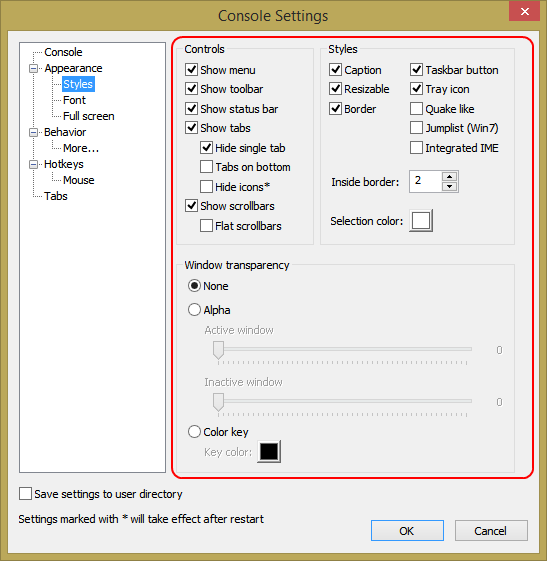
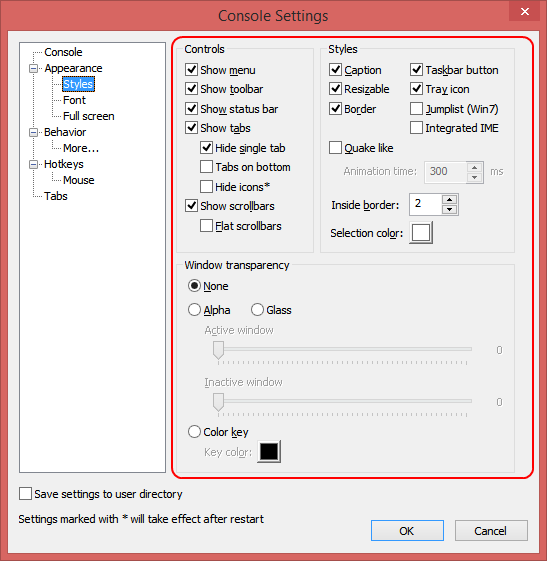
#110 Quake like animation time is settable

diff --git a/help/html/settings_appearance_styles.html b/help/html/settings_appearance_styles.html
@@ -112,6 +112,12 @@
 	</p>
 	<br />
 
+	<p class="block-row-name">Animation time</p>
+	<p class="block-row-description">
+		The time it takes to play the animation, in milliseconds.
+	</p>
+	<br />
+
 	<p class="block-row-name">Jumplist (Win7)</p>
 	<p class="block-row-description">
 		If checked, Console will create Windows 7 jumplist (shortcut for every tab accessible by right-clicking the icon in the taskbar). 

diff --git a/Console/SettingsHandler.cpp b/Console/SettingsHandler.cpp
@@ -528,11 +528,12 @@ StylesSettings::StylesSettings()
 , bResizable(true)
 , bTaskbarButton(true)
 , bBorder(true)
-, dwInsideBorder(2)
 , bTrayIcon(false)
 , bQuake(false)
 , bJumplist(false)
 , bIntegratedIME(false)
+, dwInsideBorder(2)
+, dwQuakeAnimationTime(300)
 , crSelectionColor(RGB(255, 255, 255))
 {
 }
@@ -555,6 +556,7 @@ bool StylesSettings::Load(const CComPtr<IXMLDOMElement>& pSettingsRoot)
 	XmlHelper::GetAttribute(pStylesElement, CComBSTR(L"inside_border"), dwInsideBorder, 2);
 	XmlHelper::GetAttribute(pStylesElement, CComBSTR(L"tray_icon"), bTrayIcon, false);
 	XmlHelper::GetAttribute(pStylesElement, CComBSTR(L"quake_like"), bQuake, false);
+	XmlHelper::GetAttribute(pStylesElement, CComBSTR(L"quake_animation_time"), dwQuakeAnimationTime, 300);
 	XmlHelper::GetAttribute(pStylesElement, CComBSTR(L"jumplist"), bJumplist, false);
 	XmlHelper::GetAttribute(pStylesElement, CComBSTR(L"integrated_ime"), bIntegratedIME, false);
 
@@ -585,6 +587,7 @@ bool StylesSettings::Save(const CComPtr<IXMLDOMElement>& pSettingsRoot)
 	XmlHelper::SetAttribute(pStylesElement, CComBSTR(L"inside_border"), dwInsideBorder);
 	XmlHelper::SetAttribute(pStylesElement, CComBSTR(L"tray_icon"), bTrayIcon);
 	XmlHelper::SetAttribute(pStylesElement, CComBSTR(L"quake_like"), bQuake);
+	XmlHelper::SetAttribute(pStylesElement, CComBSTR(L"quake_animation_time"), dwQuakeAnimationTime);
 	XmlHelper::SetAttribute(pStylesElement, CComBSTR(L"jumplist"), bJumplist);
 	XmlHelper::SetAttribute(pStylesElement, CComBSTR(L"integrated_ime"), bIntegratedIME);
 
@@ -608,11 +611,12 @@ StylesSettings& StylesSettings::operator=(const StylesSettings& other)
 	bResizable		= other.bResizable;
 	bTaskbarButton	= other.bTaskbarButton;
 	bBorder			= other.bBorder;
-	dwInsideBorder	= other.dwInsideBorder;
 	bTrayIcon		= other.bTrayIcon;
 	bQuake		= other.bQuake;
 	bJumplist		= other.bJumplist;
 	bIntegratedIME		= other.bIntegratedIME;
+	dwInsideBorder	= other.dwInsideBorder;
+	dwQuakeAnimationTime	= other.dwQuakeAnimationTime;
 	crSelectionColor= other.crSelectionColor;
 
 	return *this;

diff --git a/Console/DlgSettingsStyles.h b/Console/DlgSettingsStyles.h
@@ -38,6 +38,7 @@ class DlgSettingsStyles
 			DDX_CHECK(IDC_CHECK_USE_JUMPLIST, m_stylesSettings.bJumplist)
 			DDX_CHECK(IDC_CHECK_INTEGRATED_IME, m_stylesSettings.bIntegratedIME)
 			DDX_UINT(IDC_INSIDE_BORDER, m_stylesSettings.dwInsideBorder)
+			DDX_UINT(IDC_QUAKE_ANIMATION_TIME, m_stylesSettings.dwQuakeAnimationTime)
 			DDX_RADIO(IDC_TRANSPARENCY_TYPE, reinterpret_cast<int&>(m_transparencySettings.transType))
 			DDX_CHECK(IDC_CHECK_HIDE_TAB_ICONS, m_controlsSettings.bHideTabIcons)
 		END_DDX_MAP()
@@ -50,6 +51,7 @@ class DlgSettingsStyles
 			COMMAND_ID_HANDLER(IDCANCEL, OnCloseCmd)
 			COMMAND_HANDLER(IDC_CHECK_SHOW_TABS, BN_CLICKED, OnClickedShowTabs)
 			COMMAND_HANDLER(IDC_CHECK_SHOW_SCROLLBARS, BN_CLICKED, OnClickedShowScrollbars)
+			COMMAND_HANDLER(IDC_CHECK_STYLE_QUAKE, BN_CLICKED, OnClickedQuake)
 			COMMAND_HANDLER(IDC_KEY_COLOR, BN_CLICKED, OnClickedKeyColor)
 			COMMAND_HANDLER(IDC_SELECTION_COLOR, BN_CLICKED, OnClickedSelColor)
 			COMMAND_RANGE_CODE_HANDLER(IDC_TRANSPARENCY_TYPE, IDC_TRANSPARENCY_TYPE4, BN_CLICKED, OnClickedTransType)
@@ -67,6 +69,7 @@ class DlgSettingsStyles
 		LRESULT OnCloseCmd(WORD /*wNotifyCode*/, WORD wID, HWND /*hWndCtl*/, BOOL& /*bHandled*/);
 		LRESULT OnClickedShowTabs(WORD /*wNotifyCode*/, WORD /*wID*/, HWND hWndCtl, BOOL& /*bHandled*/);
 		LRESULT OnClickedShowScrollbars(WORD /*wNotifyCode*/, WORD /*wID*/, HWND hWndCtl, BOOL& /*bHandled*/);
+		LRESULT OnClickedQuake(WORD /*wNotifyCode*/, WORD /*wID*/, HWND hWndCtl, BOOL& /*bHandled*/);
 		LRESULT OnClickedKeyColor(WORD /*wNotifyCode*/, WORD /*wID*/, HWND hWndCtl, BOOL& /*bHandled*/);
 		LRESULT OnClickedSelColor(WORD /*wNotifyCode*/, WORD /*wID*/, HWND hWndCtl, BOOL& /*bHandled*/);
 		LRESULT OnClickedTransType(WORD /*wNotifyCode*/, WORD /*wID*/, HWND /*hWndCtl*/, BOOL& /*bHandled*/);
@@ -76,6 +79,7 @@ class DlgSettingsStyles
 		void UpdateSliderText(HWND hwnd);
 		void EnableTabControls();
 		void EnableScrollbarControls();
+		void EnableQuakeControls();
 		void EnableTransparencyControls();
 
 	private:

diff --git a/Console/resource.h b/Console/resource.h
@@ -139,19 +139,11 @@
 #define IDC_POS_Y                       1094
 #define IDC_CHECK_HIDE_SCROLLBARS       1094
 #define IDC_CHECK_SHOW_SCROLLBARS       1094
-#define IDC_RADIO_DOCK_NONE             1095
 #define IDC_CHECK_FLAT_SCROLLBARS       1095
-#define IDC_RADIO_DOCK_TL               1096
 #define IDC_CHECK_STYLE_QUAKE           1096
-#define IDC_RADIO_DOCK_TR               1097
 #define IDC_CHECK_USE_JUMPLIST          1097
-#define IDC_RADIO_DOCK_BL               1098
-#define IDC_RADIO_DOCK_BR               1099
-#define IDC_RADIO_Z_REGULAR             1100
 #define IDC_TRIM_TAB_TITLES             1101
-#define IDC_RADIO_Z_BOTTOM              1102
 #define IDC_TRIM_TAB_TITLES_RIGHT       1102
-#define IDC_RADIO_Z_ONTOP               1103
 #define IDC_SNAP                        1104
 #define IDC_CHECK_POSITION              1105
 #define IDC_CHECK_SNAP                  1106
@@ -170,7 +162,6 @@
 #define IDC_TAB_TITLE                   1117
 #define IDC_SPIN_TRIM_TAB_TITLES_RIGHT  1117
 #define IDC_TAB_ICON                    1118
-#define IDC_RADIO_Z_DESKTOP             1118
 #define IDC_TAB_SHELL                   1119
 #define IDC_TAB_INIT_DIR                1120
 #define IDC_COMBO_CURSOR                1121
@@ -280,6 +271,10 @@
 #define IDC_STATIC_COLOR                1211
 #define IDC_CHECK_OPEN_CURRENT_DIR      1212
 #define IDC_CHECK_USE_CREDPROV          1213
+#define IDC_STATIC_QUAKE_1              1214
+#define IDC_STATIC_QUAKE_2              1215
+#define IDC_QUAKE_ANIMATION_TIME        1216
+#define IDC_SPIN_QUAKE_ANIMATION_TIME   1217
 
 #define ID_NEW_TAB_1                    2000
 #define ID_SWITCH_TAB_1                 2100
@@ -347,7 +342,7 @@
 #ifndef APSTUDIO_READONLY_SYMBOLS
 #define _APS_NEXT_RESOURCE_VALUE        221
 #define _APS_NEXT_COMMAND_VALUE         32800
-#define _APS_NEXT_CONTROL_VALUE         1214
+#define _APS_NEXT_CONTROL_VALUE         1218
 #define _APS_NEXT_SYMED_VALUE           101
 #endif
 #endif

diff --git a/Console/DlgSettingsStyles.cpp b/Console/DlgSettingsStyles.cpp
@@ -36,9 +36,17 @@ LRESULT DlgSettingsStyles::OnInitDialog(UINT /*uMsg*/, WPARAM /*wParam*/, LPARAM
 	m_transparencySettings.Load(m_pOptionsRoot);
 
 	CUpDownCtrl	spin;
+	UDACCEL udAccel;
 
 	spin.Attach(GetDlgItem(IDC_SPIN_INSIDE_BORDER));
 	spin.SetRange(0, 10);
+	spin.Detach();
+
+	spin.Attach(GetDlgItem(IDC_SPIN_QUAKE_ANIMATION_TIME));
+	spin.SetRange(10, 20000);
+	udAccel.nSec = 0;
+	udAccel.nInc = 10;
+	spin.SetAccel(1, &udAccel);
 	spin.Detach();
 
 	m_sliderActiveAlpha.Attach(GetDlgItem(IDC_ACTIVE_ALPHA));
@@ -59,6 +67,7 @@ LRESULT DlgSettingsStyles::OnInitDialog(UINT /*uMsg*/, WPARAM /*wParam*/, LPARAM
 
 	EnableTabControls();
 	EnableScrollbarControls();
+	EnableQuakeControls();
 	EnableTransparencyControls();
 
 	DoDataExchange(DDX_LOAD);
@@ -157,6 +166,13 @@ LRESULT DlgSettingsStyles::OnClickedShowScrollbars(WORD /*wNotifyCode*/, WORD /*
 {
 	DoDataExchange(DDX_SAVE);
 	EnableScrollbarControls();
+	return 0;
+}
+
+LRESULT DlgSettingsStyles::OnClickedQuake(WORD /*wNotifyCode*/, WORD /*wID*/, HWND /*hWndCtl*/, BOOL& /*bHandled*/)
+{
+	DoDataExchange(DDX_SAVE);
+	EnableQuakeControls();
 	return 0;
 }
 
@@ -269,6 +285,14 @@ void DlgSettingsStyles::EnableScrollbarControls()
 	{
 		GetDlgItem(IDC_CHECK_FLAT_SCROLLBARS).EnableWindow();
 	}
+}
+
+void DlgSettingsStyles::EnableQuakeControls()
+{
+	GetDlgItem(IDC_STATIC_QUAKE_1).EnableWindow(m_stylesSettings.bQuake);
+	GetDlgItem(IDC_STATIC_QUAKE_2).EnableWindow(m_stylesSettings.bQuake);
+	GetDlgItem(IDC_QUAKE_ANIMATION_TIME).EnableWindow(m_stylesSettings.bQuake);
+	GetDlgItem(IDC_SPIN_QUAKE_ANIMATION_TIME).EnableWindow(m_stylesSettings.bQuake);
 }
 
 //////////////////////////////////////////////////////////////////////////////

diff --git a/Console/MainFrame.cpp b/Console/MainFrame.cpp
@@ -595,12 +595,12 @@ void MainFrame::ShowHideWindow(void)
 
 		if(!this->IsWindowVisible())
 		{
-			::AnimateWindow(m_hWnd, 300, dwActivateFlags);
+			::AnimateWindow(m_hWnd, stylesSettings.dwQuakeAnimationTime, dwActivateFlags);
 			this->RedrawWindow(NULL, NULL, RDW_UPDATENOW | RDW_ALLCHILDREN | RDW_FRAME |RDW_INVALIDATE | RDW_ERASE);
 		}
 		else if(m_bAppActive)
 		{
-			::AnimateWindow(m_hWnd, 300, dwHideFlags);
+			::AnimateWindow(m_hWnd, stylesSettings.dwQuakeAnimationTime, dwHideFlags);
 			::SetForegroundWindow(this->m_hwndPreviousForeground);
 			bActivate = false;
 		}

diff --git a/Console/DlgSettingsFullScreen.h b/Console/DlgSettingsFullScreen.h
@@ -39,7 +39,6 @@ class DlgSettingsFullScreen
 
 		LRESULT OnCloseCmd(WORD /*wNotifyCode*/, WORD wID, HWND /*hWndCtl*/, BOOL& /*bHandled*/);
 		LRESULT OnClickedScrollType(WORD /*wNotifyCode*/, WORD /*wID*/, HWND /*hWndCtl*/, BOOL& /*bHandled*/);
-		LRESULT OnClickedFlashTab(WORD /*wNotifyCode*/, WORD /*wID*/, HWND /*hWndCtl*/, BOOL& /*bHandled*/);
 
 	private:
 

diff --git a/Console/SettingsHandler.h b/Console/SettingsHandler.h
@@ -180,11 +180,12 @@ struct StylesSettings : public SettingsBase
 	bool			bResizable;
 	bool			bTaskbarButton;
 	bool			bBorder;
-	DWORD			dwInsideBorder;
 	bool			bTrayIcon;
 	bool			bQuake;
 	bool			bJumplist;
 	bool			bIntegratedIME;
+	DWORD			dwInsideBorder;
+	DWORD			dwQuakeAnimationTime;
 	COLORREF		crSelectionColor;
 };
 
